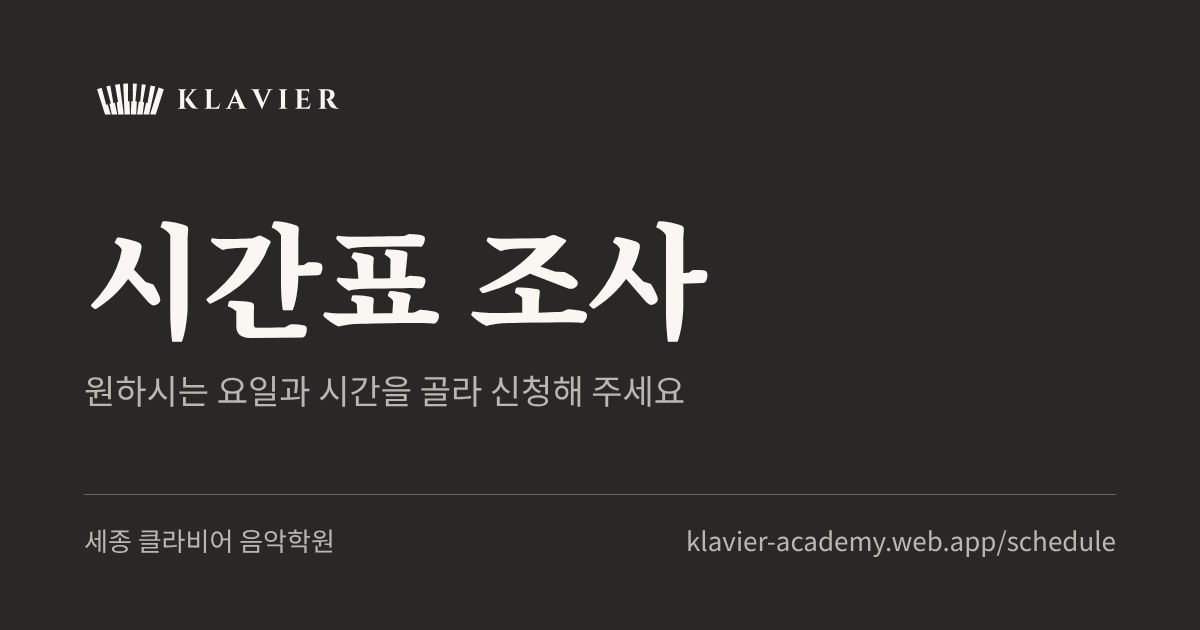
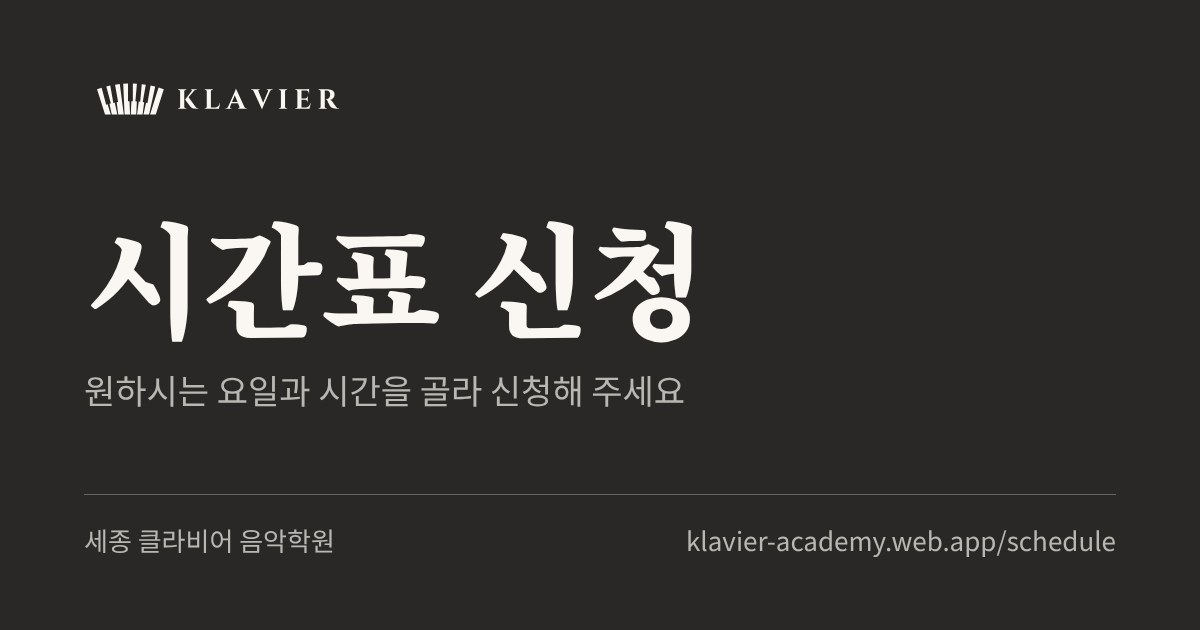
시간표 신청으로 이름 변경, 신청 구분 제거, 정원 표현을 '선생님 한 분에 다섯 명'으로
- '시간표 조사'를 '시간표 신청'으로 (홈페이지, 신청 화면, 운영실, 미리보기 그림, 시연 GIF)
- 신청 화면에서 재원생·형제·신규 구분을 없애고 모두 접수 순서대로
- 운영실은 명부와 이름이 맞는지로 재원생 여부를 표시
- 홈페이지 대기 안내를 신청 순서대로로 통일
- 정원 문구를 선생님 한 분이 다섯 명 전담으로 변경

Claude-Session: https://claude.ai/code/session_01P2nCLTDcX8zYUwPPi7MwoR

Changed region(s): [[0.37, 0.3317, 0.5858, 0.5429]]

diff --git a/admin/admin.js b/admin/admin.js
@@ -113,7 +113,7 @@
     view.appendChild(h("div", { class: "tiles" },
       tile("통계 · 월말 점검", "등록·퇴원 추이, 경로, 주의 원생", "stats"),
       tile("퇴원 · 휴원생", "그만둔 아이, 쉬는 아이 기록", "gone"),
-      tile("시간표 조사", surveyState().text + (survey && survey.round ? " · 접수 " + subs.length + "건" : ""), "survey"),
+      tile("시간표 신청", surveyState().text + (survey && survey.round ? " · 접수 " + subs.length + "건" : ""), "survey"),
       tile("이달의 클라비어", "매달 상 받은 아이 기록 · " + awards.length + "건", "awards"),
       tile("현금출납부", "수강료 수입·지출 기록, 인쇄 · " + ledger.length + "줄", "ledger"),
       tile("공지사항", "홈페이지 공지 " + notices.length + "건 · 글쓰기, 고치기", "notices")));
@@ -467,14 +467,14 @@
     }
   }
 
-  /* ── 시간표 조사 ── */
-  var NOTICE0 = "한 시간 정원은 10명입니다.\n접수 순서대로 가배정하고, 정원이 찬 시간은 대기로 접수됩니다.\n아이 이름은 성까지 적어 주세요.\n오실 수 있는 요일만 골라 주세요.\n문의: 문자 010-4488-4763";
+  /* ── 시간표 신청 ── */
+  var NOTICE0 = "선생님 한 분이 한 시간에 다섯 명만 전담합니다.\n접수 순서대로 가배정하고, 정원이 찬 시간은 대기로 접수됩니다.\n아이 이름은 성까지 적어 주세요.\n오실 수 있는 요일만 골라 주세요.\n문의: 문자 010-4488-4763";
   function tsMs(t) { return t && t.toMillis ? t.toMillis() : 0; }
   function kstInput(msv) { return msv ? new Date(msv + 9 * 36e5).toISOString().slice(0, 16) : ""; }
   function kstText(msv, sec) { return msv ? new Date(msv + 9 * 36e5).toISOString().slice(5, sec ? 19 : 16).replace("T", " ") : ""; }
   function fromKst(v) { return v ? firebase.firestore.Timestamp.fromDate(new Date(v + ":00+09:00")) : null; }
   function surveyState() {
-    if (!survey || !survey.round) return { key: "none", text: "만든 조사 없음" };
+    if (!survey || !survey.round) return { key: "none", text: "연 신청 없음" };
     var t = Date.now(), st = t < tsMs(survey.openAt) ? ["before", "열리기 전"] : t < tsMs(survey.closeAt) ? ["open", "접수 중"] : ["closed", "마감"];
     return { key: st[0], text: st[1] + (survey.visible ? "" : " (학부모 화면 숨김)") };
   }
@@ -494,7 +494,7 @@
       (s.slots || []).forEach(function (id) { n[id] = (n[id] || 0) + 1; s.rank[id] = n[id]; if (n[id] > svCap(id)) s.waits++; (bySlot[id] = bySlot[id] || []).push(s); });
       var m = active().filter(function (x) { return x.name === s.name.replace(/\s/g, ""); }), linkId = (desk[s.id] || {}).studentId, linked = linkId ? students.filter(function (x) { return x.id === linkId; })[0] : null;
       s.linked = linked || null; s.match = linked || (m.length === 1 ? m[0] : null);
-      s.check = linked ? "" : s.kind === "재원생" ? (m.length === 0 ? "명부에 없는 이름" : m.length > 1 ? "같은 이름 " + m.length + "명" : "") : (m.length ? "명부에 같은 이름 있음" : "");
+      s.check = linked ? "" : m.length === 0 ? "명부에 없는 이름" : m.length > 1 ? "같은 이름 " + m.length + "명" : ""; s.who = s.match ? "재원생" : "명부에 없음";
     });
     return { list: list, n: n, bySlot: bySlot };
   }
@@ -508,16 +508,16 @@
   }
   function surveyView() {
     var st = surveyState(), R = ranked(), sv = survey || {};
-    page("시간표 조사", "지금 상태: " + st.text + (sv.round ? " · 접수 " + subs.length + "건" : ""));
+    page("시간표 신청", "지금 상태: " + st.text + (sv.round ? " · 접수 " + subs.length + "건" : ""));
     var link = location.origin + "/schedule/";
-    var F = { title: h("input", { type: "text", value: sv.title || "시간표 조사" }), notice: h("textarea", { rows: "6" }, sv.notice == null ? NOTICE0 : sv.notice),
+    var F = { title: h("input", { type: "text", value: sv.title || "시간표 신청" }), notice: h("textarea", { rows: "6" }, sv.notice == null ? NOTICE0 : sv.notice),
       openAt: h("input", { type: "datetime-local", value: kstInput(tsMs(sv.openAt)) }), closeAt: h("input", { type: "datetime-local", value: kstInput(tsMs(sv.closeAt)) }),
       cap: h("input", { type: "number", min: "1", max: "30", value: sv.cap || 10 }), visible: h("input", { type: "checkbox", checked: !!sv.visible }) };
     var m = h("span", { class: "msg" });
     function fail() { m.className = "msg bad"; m.textContent = "저장하지 못했습니다."; }
     function data() {
       var caps = {}; Object.keys(slots).forEach(function (id) { var c = slots[id].capacity; if (c != null && Number(c) !== 10) caps[id] = Number(c); });
-      return { title: F.title.value.trim() || "시간표 조사", notice: F.notice.value.trim(), openAt: fromKst(F.openAt.value), closeAt: fromKst(F.closeAt.value), cap: Number(F.cap.value) || 10, caps: caps, visible: F.visible.checked };
+      return { title: F.title.value.trim() || "시간표 신청", notice: F.notice.value.trim(), openAt: fromKst(F.openAt.value), closeAt: fromKst(F.closeAt.value), cap: Number(F.cap.value) || 10, caps: caps, visible: F.visible.checked };
     }
     function save(newRound) {
       var d = data(); if (!d.openAt || !d.closeAt || tsMs(d.closeAt) <= tsMs(d.openAt)) { m.className = "msg bad"; m.textContent = "열리는 시각과 마감 시각을 넣어 주세요. 마감은 열림보다 뒤여야 합니다."; return; }
@@ -527,11 +527,11 @@
       p.then(function () { return db.doc("survey/current").set(d); }).then(function () { m.className = "msg good"; m.textContent = newRound ? "새로고침했습니다. 받은 신청을 비우고 0부터 다시 받습니다." : "저장했습니다."; delete fresh.dataset.sure; fresh.textContent = "새로고침"; }, fail);
     }
     var fresh = h("button", { class: "btn danger", type: "button", onclick: function () { if (fresh.dataset.sure) save(true); else { fresh.dataset.sure = "1"; fresh.textContent = "한 번 더 누르면 받은 신청을 비우고 처음부터 다시 받습니다"; } } }, "새로고침");
-    view.appendChild(h("h2", { text: "조사 설정" }));
-    view.appendChild(h("div", { class: "form" }, h("label", { class: "wide" }, "조사 이름", F.title), h("label", { class: "wide" }, "학부모에게 보이는 안내문", F.notice),
+    view.appendChild(h("h2", { text: "신청 설정" }));
+    view.appendChild(h("div", { class: "form" }, h("label", { class: "wide" }, "신청 이름", F.title), h("label", { class: "wide" }, "학부모에게 보이는 안내문", F.notice),
       h("label", null, "열리는 시각", F.openAt), h("label", null, "마감 시각", F.closeAt), h("label", null, "한 시간 정원 (기본)", F.cap),
-      h("label", null, "학부모 화면", h("div", { class: "checks" }, h("label", null, F.visible, "링크를 열면 이 조사가 보이게 하기"))),
-      h("div", { class: "wide row" }, h("button", { class: "btn pri", type: "button", onclick: function () { save(!sv.round); } }, sv.round ? "설정 저장" : "조사 만들기"), sv.round ? fresh : null,
+      h("label", null, "학부모 화면", h("div", { class: "checks" }, h("label", null, F.visible, "링크를 열면 신청 화면이 보이게 하기"))),
+      h("div", { class: "wide row" }, h("button", { class: "btn pri", type: "button", onclick: function () { save(!sv.round); } }, sv.round ? "설정 저장" : "신청 열기"), sv.round ? fresh : null,
         sv.round && st.key === "open" ? h("button", { class: "btn", type: "button", onclick: function () { db.doc("survey/current").update({ closeAt: firebase.firestore.Timestamp.now() }).then(function () { m.className = "msg good"; m.textContent = "마감했습니다."; }, fail); } }, "지금 마감") : null, m),
       h("p", { class: "wide msg", text: "시간표 현황에서 정원을 10명이 아니게 바꿔 둔 칸은 그 정원이 그대로 쓰입니다. 학부모에게는 아래 주소 하나만 보내면 됩니다." }),
       h("div", { class: "wide row" }, h("code", { text: link }), h("button", { class: "btn", type: "button", onclick: function (e) { var b = e.currentTarget; (navigator.clipboard ? navigator.clipboard.writeText(link) : Promise.reject()).then(function () { b.textContent = "복사했습니다"; }, function () { b.textContent = "주소를 길게 눌러 복사해 주세요"; }); } }, "주소 복사"),
@@ -540,7 +540,7 @@
 
     var waitN = R.list.filter(function (s) { return s.waits; }).length, notYet = active().filter(function (x) { return !R.list.some(function (s) { return s.match && s.match.id === x.id; }); }).sort(byName);
     view.appendChild(h("h2", { text: "접수 현황" }));
-    view.appendChild(h("div", { class: "box kv" }, [[subs.length + "건", "접수"], [R.list.filter(function (s) { return s.kind === "재원생"; }).length + "건", "재원생"], [R.list.filter(function (s) { return s.kind !== "재원생"; }).length + "건", "형제 · 신규"], [waitN + "건", "대기가 낀 신청"], [notYet.length + "명", "아직 신청 안 한 재원생"]].map(function (x) { return h("div", null, h("b", { text: x[0] }), h("span", { text: x[1] })); })));
+    view.appendChild(h("div", { class: "box kv" }, [[subs.length + "건", "접수"], [R.list.filter(function (s) { return s.match; }).length + "건", "명부에 있는 아이"], [R.list.filter(function (s) { return !s.match; }).length + "건", "명부에 없는 이름"], [waitN + "건", "대기가 낀 신청"], [notYet.length + "명", "아직 신청 안 한 재원생"]].map(function (x) { return h("div", null, h("b", { text: x[0] }), h("span", { text: x[1] })); })));
     var TABS = [["order", "접수 순서"], ["grid", "칸별 현황"], ["none", "미신청 재원생"]];
     view.appendChild(h("div", { class: "tabs", style: "margin-top:16px" }, TABS.map(function (v) { return h("button", { type: "button", class: svTab === v[0] ? "on" : "", text: v[1], onclick: function () { svTab = v[0]; surveyView(); } }); })));
     var m2 = h("span", { class: "msg" });
@@ -554,11 +554,11 @@
       };
       R.list.forEach(function (s) {
         var d = desk[s.id] || {}, sel = h("select", { "aria-label": "처리", onchange: function (e) { db.doc("rounds/" + sv.round + "/desk/" + s.id).set({ status: e.target.value }, { merge: true }); } }, ["접수", "배정 완료", "대기 명단", "보류"].map(function (o) { return h("option", { value: o, selected: (d.status || "접수") === o, text: o }); }));
-        tb.appendChild(h("tr", null, h("td", { class: "num", text: s.no }), h("td", { text: kstText(tsMs(s.at), true) }), h("td", null, s.name, s.check ? h("span", { class: "tag w", style: "margin-left:6px", text: s.check }) : null, s.linked ? h("span", { class: "tag", style: "margin-left:6px", text: "명부: " + s.linked.name }) : null, s.check || s.linked ? linker(s) : null), h("td", { text: s.kind }), h("td", { text: s.grade }), h("td", { class: "num", text: s.weekly }),
+        tb.appendChild(h("tr", null, h("td", { class: "num", text: s.no }), h("td", { text: kstText(tsMs(s.at), true) }), h("td", null, s.name, s.check ? h("span", { class: "tag w", style: "margin-left:6px", text: s.check }) : null, s.linked ? h("span", { class: "tag", style: "margin-left:6px", text: "명부: " + s.linked.name }) : null, s.check || s.linked ? linker(s) : null), h("td", { text: s.who }), h("td", { text: s.grade }), h("td", { class: "num", text: s.weekly }),
           h("td", null, (s.slots || []).map(function (id) { var w = s.rank[id] - svCap(id); return h("span", { class: "tag" + (w > 0 ? " w" : ""), style: "margin:0 4px 2px 0", text: slotName(id) + (w > 0 ? " 대기" + w : "") }); })),
           h("td", { text: s.phone || "" }), h("td", { text: s.memo || "" }), h("td", null, sel)));
       });
-      view.appendChild(R.list.length ? h("div", { class: "scroll" }, h("table", { class: "plain" }, h("thead", null, h("tr", null, ["순번", "접수 시각", "이름", "구분", "학년", "주", "신청 시간", "연락처", "요청", "처리"].map(function (x) { return h("th", { text: x }); }))), tb)) : h("p", { class: "empty", text: "아직 들어온 신청이 없습니다." }));
+      view.appendChild(R.list.length ? h("div", { class: "scroll" }, h("table", { class: "plain" }, h("thead", null, h("tr", null, ["순번", "접수 시각", "이름", "명부", "학년", "주", "신청 시간", "연락처", "요청", "처리"].map(function (x) { return h("th", { text: x }); }))), tb)) : h("p", { class: "empty", text: "아직 들어온 신청이 없습니다." }));
     } else if (svTab === "grid") {
       var g = h("div", { class: "tt" }, h("div")); DAYS.forEach(function (d) { g.appendChild(h("div", { class: "h", text: d[1] })); });
       TIMES.forEach(function (t) { g.appendChild(h("div", { class: "t", text: t })); DAYS.forEach(function (d) {
@@ -580,10 +580,10 @@
       h("button", { class: "btn", type: "button", onclick: function () { db.doc("rounds/" + sv.round + "/meta/counts").set({ c: R.n }).then(function () { m2.className = "msg good"; m2.textContent = "학부모 화면의 남은 자리를 실제 접수 건수로 다시 맞췄습니다."; }); } }, "남은 자리 다시 계산"), m2));
     view.appendChild(out);
     function csv() {
-      var rows = [["순번", "접수 시각", "이름", "구분", "학년", "주 횟수", "신청 시간", "대기", "연락처", "요청", "처리"]].concat(R.list.map(function (s) {
-        return [s.no, kstText(tsMs(s.at), true), s.name, s.kind, s.grade, s.weekly, s.slots.map(slotName).join(" / "), s.slots.filter(function (id) { return s.rank[id] > svCap(id); }).map(function (id) { return slotName(id) + " 대기" + (s.rank[id] - svCap(id)); }).join(" / "), s.phone, s.memo, (desk[s.id] || {}).status || "접수"]; }));
+      var rows = [["순번", "접수 시각", "이름", "명부", "학년", "주 횟수", "신청 시간", "대기", "연락처", "요청", "처리"]].concat(R.list.map(function (s) {
+        return [s.no, kstText(tsMs(s.at), true), s.name, s.who, s.grade, s.weekly, s.slots.map(slotName).join(" / "), s.slots.filter(function (id) { return s.rank[id] > svCap(id); }).map(function (id) { return slotName(id) + " 대기" + (s.rank[id] - svCap(id)); }).join(" / "), s.phone, s.memo, (desk[s.id] || {}).status || "접수"]; }));
       var text = "" + rows.map(function (r) { return r.map(function (v) { return '"' + String(v == null ? "" : v).replace(/"/g, '""') + '"'; }).join(","); }).join("\r\n");
-      var a = h("a", { href: URL.createObjectURL(new Blob([text], { type: "text/csv" })), download: "시간표조사_" + sv.round + ".csv" }); document.body.appendChild(a); a.click(); a.remove();
+      var a = h("a", { href: URL.createObjectURL(new Blob([text], { type: "text/csv" })), download: "시간표신청_" + sv.round + ".csv" }); document.body.appendChild(a); a.click(); a.remove();
     }
     function preview() {
       var done = R.list.filter(function (s) { return (desk[s.id] || {}).status === "배정 완료"; }), hit = done.filter(function (s) { return s.match; }), miss = done.filter(function (s) { return !s.match; });
@@ -593,7 +593,7 @@
       out.appendChild(h("p", { class: "msg", text: "'배정 완료' " + done.length + "건 중 명부의 재원생과 이름이 맞는 " + hit.length + "명의 수업 시간과 주 횟수를 아래처럼 바꿉니다. 비어 있는 보호자 연락처도 함께 채웁니다." }));
       if (hit.length) out.appendChild(h("div", { class: "scroll" }, h("table", { class: "plain" }, h("thead", null, h("tr", null, ["이름", "지금", "바뀐 뒤"].map(function (x) { return h("th", { text: x }); }))), h("tbody", null, hit.map(function (s) {
         return h("tr", null, h("td", { text: s.match.name === s.name ? s.name : s.match.name + " (신청서에는 '" + s.name + "')" }), h("td", { text: sortSlots(s.match.slots).map(slotName).join(" · ") || "없음" }), h("td", { text: sortSlots(s.slots).map(slotName).join(" · ") })); })))));
-      if (miss.length) out.appendChild(h("p", { class: "msg bad", text: "명부의 아이와 이어지지 않아 반영하지 않는 신청: " + miss.map(function (s) { return s.name + "(" + s.kind + ")"; }).join(", ") + " — 재원생이면 접수 순서 표에서 명부의 아이와 이어 주시고, 신규는 '신규 등록'에서 직접 넣어 주세요." }));
+      if (miss.length) out.appendChild(h("p", { class: "msg bad", text: "명부의 아이와 이어지지 않아 반영하지 않는 신청: " + miss.map(function (s) { return s.name; }).join(", ") + " — 재원생인데 이름이 다르게 적힌 경우는 접수 순서 표에서 명부의 아이와 이어 주시고, 새로 오는 아이는 '신규 등록'에서 직접 넣어 주세요." }));
       var m3 = h("span", { class: "msg" });
       if (hit.length) out.appendChild(h("div", { class: "row", style: "margin-top:12px" }, h("button", { class: "btn pri", type: "button", onclick: function (e) {
         var b = db.batch(), btn = e.currentTarget; btn.disabled = true;

diff --git a/index.html b/index.html
@@ -628,9 +628,9 @@ table.grade { min-width: 0; }
           <p style="margin-top: 0.9em">천연 목재 흡음재와 전문 방음 시공으로 바깥 소음은 막고, 연주 소리는 밖으로 새지 않게 했습니다. 아이는 오롯이 자기 소리에만 집중합니다. 전 구역 CCTV까지 갖춰, 아이가 혼자 있는 시간도 마음 놓고 맡기실 수 있습니다.</p>
         </div>
         <div>
-          <h3 class="h3f">한 시간에 열 명만 머무는 공간</h3>
-          <p>아무리 좋은 공간도 붐비면 소용이 없습니다. 클라비어는 한 시간에 열 명까지만 받습니다. 북적이는 복도도, 방이 비기를 기다리는 줄도 없습니다. 공간에 여유가 있어야 아이는 자기 속도로 연습하고, 선생님의 눈도 한 아이에게 오래 머뭅니다.</p>
-          <p style="margin-top: 0.9em">정원이 차면 더 받지 않고 대기로 안내해 드립니다. 자리를 늘리는 대신, 지금 다니는 아이들의 시간과 공간을 지키는 쪽을 택했습니다. 열 명을 넘지 않는 한 시간이 클라비어가 지키는 약속입니다.</p>
+          <h3 class="h3f">선생님 한 분에 아이 다섯 명</h3>
+          <p>아무리 좋은 공간도 붐비면 소용이 없습니다. 클라비어는 선생님 한 분이 한 시간에 다섯 명만 전담합니다. 북적이는 복도도, 방이 비기를 기다리는 줄도 없습니다. 공간에 여유가 있어야 아이는 자기 속도로 연습하고, 선생님의 눈도 한 아이에게 오래 머뭅니다.</p>
+          <p style="margin-top: 0.9em">정원이 차면 더 받지 않고 대기로 안내해 드립니다. 자리를 늘리는 대신, 지금 다니는 아이들의 시간과 공간을 지키는 쪽을 택했습니다. 선생님 한 분에 다섯 명, 클라비어가 지키는 약속입니다.</p>
         </div>
       </div>
       <p class="note" style="margin-top: 32px">공사는 2026년 12월 24일부터 2027년 1월 3일까지입니다. 환기와 분진 물청소를 마친 뒤 새 공간에서 뵙겠습니다.</p>
@@ -712,7 +712,7 @@ table.grade { min-width: 0; }
       <div class="steps plain" style="margin-top: 72px">
         <div class="card"><div class="en">Maestro</div><h3>원장이 직접 봅니다</h3><p>입학 후 첫 한 달은 원장이 직접 가르칩니다. 13:00–14:00, 17:00–19:00에 오시면 추가 비용 없이 원장이 전담합니다.</p></div>
         <div class="card"><div class="en">Two teachers</div><h3>두 사람의 눈으로</h3><p>원장 반과 선생님 반이 격월로 바뀝니다. 한 사람이 놓친 부분을 다른 사람이 봅니다.</p></div>
-        <div class="card"><div class="en">Ten seats</div><h3>한 시간 정원 10명</h3><p>시간마다 정원을 두어 선생님과 마주하는 시간을 지킵니다.</p></div>
+        <div class="card"><div class="en">Five to one</div><h3>선생님 한 분에 다섯 명</h3><p>선생님 한 분이 한 시간에 다섯 명만 전담해, 아이와 마주하는 시간을 지킵니다.</p></div>
       </div>
     </div>
   </section>
@@ -816,29 +816,24 @@ table.grade { min-width: 0; }
       <div class="eyebrow">TIME &amp; SEATS</div>
       <h2 class="h2">수업은 시간 정원제로 운영합니다</h2>
       <div class="seat">
-        <div class="seat-n"><span class="big">10</span><span>명<small>한 시간 정원</small></span></div>
-        <p>한 시간에 아이들이 몰리면 선생님과 마주하는 시간이 줄어듭니다. 그래서 시간마다 정원을 정해 두었습니다. 수업은 월요일부터 금요일까지, 주 1회에서 4회 중 고르실 수 있습니다.</p>
+        <div class="seat-n"><span class="big">5</span><span>명<small>선생님 한 분이 전담</small></span></div>
+        <p>한 시간에 아이들이 몰리면 선생님과 마주하는 시간이 줄어듭니다. 그래서 선생님 한 분이 한 시간에 다섯 명만 전담하도록 정원을 정해 두었습니다. 수업은 월요일부터 금요일까지, 주 1회에서 4회 중 고르실 수 있습니다.</p>
       </div>
       <div class="survey">
         <div>
           <div class="en">Timetable Survey</div>
-          <h3 class="h3f">학기마다, 시간표 조사로 자리를 정합니다</h3>
-          <p class="sub">정원은 정해 두는 것보다 지키는 것이 어렵습니다. 그래서 클라비어는 시간표 조사 시스템을 직접 만들어 운영합니다. 학기마다 정해진 시각에 조사가 열리면, 보호자는 휴대폰으로 원하는 요일과 시간을 고릅니다.</p>
+          <h3 class="h3f">학기마다, 시간표 신청으로 자리를 정합니다</h3>
+          <p class="sub">정원은 정해 두는 것보다 지키는 것이 어렵습니다. 그래서 클라비어는 시간표 신청 시스템을 직접 만들어 운영합니다. 학기마다 정해진 시각에 신청이 열리면, 보호자는 휴대폰으로 원하는 요일과 시간을 고릅니다.</p>
           <ul class="points">
             <li><strong>남은 자리가 보입니다</strong><span>시간마다 남은 자리가 실시간으로 표시됩니다. 전화로 물어보지 않아도 됩니다.</span></li>
             <li><strong>접수 순서대로 정합니다</strong><span>누르신 시각이 초 단위로 기록되고, 그 순서대로 자리를 드립니다.</span></li>
-            <li><strong>열 명에서 멈춥니다</strong><span>정원이 찬 시간은 더 받지 않고 대기로 접수합니다.</span></li>
+            <li><strong>정원에서 멈춥니다</strong><span>선생님 한 분에 다섯 명입니다. 정원이 찬 시간은 더 받지 않고 대기로 접수합니다.</span></li>
           </ul>
         </div>
-        <figure class="phone"><img src="img/survey-demo.gif" width="360" height="702" loading="lazy" alt="시간표 조사 화면 시연. 아이 이름과 학년을 적고, 요일마다 남은 자리를 보면서 시간을 고른 뒤 신청하면 접수 순번이 나온다."><figcaption class="cap">시간표 조사 화면 · 예시 자료</figcaption></figure>
+        <figure class="phone"><img src="img/survey-demo.gif?v=2" width="360" height="702" loading="lazy" alt="시간표 신청 화면 시연. 아이 이름과 학년을 적고, 요일마다 남은 자리를 보면서 시간을 고른 뒤 신청하면 접수 순번이 나온다."><figcaption class="cap">시간표 신청 화면 · 예시 자료</figcaption></figure>
       </div>
-      <h3 class="h3">자리가 없을 때는 대기 명단 순서로 연락드립니다</h3>
-      <ol class="queue">
-        <li><strong>재원생의 시간 변경</strong><span>지금 다니는 아이가 시간을 옮길 때</span></li>
-        <li><strong>재원생의 형제</strong><span>다니는 아이의 동생 · 언니 · 오빠</span></li>
-        <li><strong>새로 오시는 분</strong><span>처음 등록하는 아이</span></li>
-      </ol>
-      <p class="note">같은 순서 안에서는 신청하신 날짜 순입니다.</p>
+      <h3 class="h3">자리가 없을 때는 신청하신 순서대로 연락드립니다</h3>
+      <p class="sub">다니는 아이, 형제, 새로 오시는 분을 가리지 않습니다. 원하시는 시간에 자리가 나면 대기를 신청하신 순서 그대로 안내해 드립니다.</p>
     </div></div>
     <div class="sec" id="fee" style="scroll-margin-top: calc(var(--nav-h) + 16px)"><div class="wrap">
       <div class="eyebrow">TUITION</div>

diff --git a/schedule/schedule.js b/schedule/schedule.js
@@ -1,4 +1,4 @@
-/* 클라비어 시간표 조사 — 학부모 화면
+/* 클라비어 시간표 신청 — 학부모 화면
    읽는 것: survey/current (회차 안내 · 열림/마감 시각), rounds/{회차}/meta/counts (칸별 신청 수, 이름 없음)
    쓰는 것: rounds/{회차}/submissions/{열쇠} (내 신청 한 건). 다른 아이의 이름·명단은 어디에도 나오지 않습니다.
    열림 · 마감 · 접수 순서는 서버 시각으로 판정합니다(firestore.rules). */
@@ -7,7 +7,7 @@
   var DAYS = [["mon", "월"], ["tue", "화"], ["wed", "수"], ["thu", "목"], ["fri", "금"]];
   var TIMES = []; for (var hh = 13; hh <= 19; hh++) { TIMES.push(hh + ":00"); if (hh < 19) TIMES.push(hh + ":30"); }
   var GRADES = ["6세", "7세", "초1", "초2", "초3", "초4", "초5", "초6", "중1", "중2", "중3", "고1", "고2", "고3", "성인"];
-  var KINDS = ["재원생", "형제 신규", "신규"];
+  var KIND = "재원생"; /* 구분 없이 모두 같은 순서로 받습니다. 저장 규칙이 이 칸을 요구해 고정값만 넣고 화면에는 쓰지 않습니다. */
   var view = document.getElementById("view"), db, S = null, counts = {}, mine = null, editing = false, lookup = false, offset = 0, phase = "", unsubCounts = null, repaint = null;
   var form = blank();
 
@@ -53,12 +53,12 @@
   /* ── 화면 ── */
   function head(stateText) {
     view.innerHTML = ""; repaint = null;
-    view.appendChild(h("h1", { text: (S && S.title) || "시간표 조사" }));
+    view.appendChild(h("h1", { text: ((S && S.title) || "시간표 신청").replace("시간표 조사", "시간표 신청") }));
     view.appendChild(h("p", { class: "state", text: stateText }));
     if (S && S.notice) view.appendChild(h("p", { class: "notice", text: S.notice }));
   }
   function render() {
-    if (phase === "none") { view.innerHTML = ""; view.appendChild(h("h1", { text: "시간표 조사" })); view.appendChild(h("div", { class: "card" }, h("p", { text: "지금은 진행 중인 시간표 조사가 없습니다." }), h("p", { class: "small", text: "조사가 시작되면 학원에서 따로 알려 드립니다." }))); return; }
+    if (phase === "none") { view.innerHTML = ""; view.appendChild(h("h1", { text: "시간표 신청" })); view.appendChild(h("div", { class: "card" }, h("p", { text: "지금은 시간표 신청 기간이 아닙니다." }), h("p", { class: "small", text: "신청이 시작되면 학원에서 따로 알려 드립니다." }))); return; }
     if (phase === "before") {
       head("아직 열리지 않았습니다");
       view.appendChild(h("div", { class: "card" }, h("p", { class: "cap", text: kst(ms(S.openAt)) + "에 열립니다. 이 화면을 그대로 두시면 시간이 되었을 때 저절로 열립니다." }), h("p", { class: "count", id: "countdown", text: left(ms(S.openAt) - now()) })));
@@ -112,7 +112,6 @@
     f.appendChild(h("h2", { text: editing ? "신청 내용 고치기" : "신청하기" }));
     if (editing) f.appendChild(h("p", { class: "msg bad", text: "요일이나 시간을 바꾸면 접수 순서가 지금 고치는 시각으로 다시 매겨집니다. 요청 사항만 고치면 순서는 그대로입니다." }));
     f.appendChild(field("아이 이름 (성까지)", name));
-    f.appendChild(seg("신청 구분", KINDS, function () { return form.kind; }, function (v) { form.kind = v; }));
     f.appendChild(field("학년", grade));
     f.appendChild(seg("희망 횟수", [1, 2, 3, 4, 5], function () { return form.weekly; }, function (v) { form.weekly = v; }, function (o) { return "주 " + o + "회"; }));
     var pick = h("div"); pick.onpick = note;
@@ -132,14 +131,13 @@
       var nm = form.name.trim(), ph = form.phone.replace(/\D/g, ""), slots = Object.keys(form.picks).map(function (d) { return slotId(d, form.picks[d]); }).sort(function (a, b) { return order(a) - order(b); });
       function bad(t) { m.className = "msg bad"; m.textContent = t; }
       if (nm.length < 2) return bad("아이 이름을 성까지 적어 주세요.");
-      if (!form.kind) return bad("신청 구분을 골라 주세요.");
       if (!form.grade) return bad("학년을 골라 주세요.");
       if (!form.weekly) return bad("희망 횟수를 골라 주세요.");
       if (slots.length !== form.weekly) return bad("고른 요일 수(" + slots.length + ")와 희망 횟수(주 " + form.weekly + "회)가 같아야 합니다.");
       if (ph.length < 9) return bad("보호자 연락처를 적어 주세요.");
       if (!form.agree) return bad("개인정보 수집 · 이용에 동의해 주세요.");
       btn.disabled = true; m.className = "msg"; m.textContent = "접수하는 중입니다. 화면을 닫지 말아 주세요.";
-      var base = { name: nm, kind: form.kind, grade: form.grade, weekly: form.weekly, slots: slots, phone: form.phone.trim(), memo: form.memo.trim(), agree: true };
+      var base = { name: nm, kind: KIND, grade: form.grade, weekly: form.weekly, slots: slots, phone: form.phone.trim(), memo: form.memo.trim(), agree: true };
       key(nm, ph).then(function (k) {
         var ref = sub(k), cref = db.doc("rounds/" + S.round + "/meta/counts");
         return (editing ? Promise.resolve(null) : ref.get()).then(function (pre) {
@@ -170,7 +168,7 @@
       list.appendChild(h("li", null, h("b", { text: slotName(id) }), h("span", { class: wait ? "w" : "k", text: p ? (wait ? "대기 " + (p - c) + "번" : "가배정 · " + p + "번째") : "접수" })));
     });
     view.appendChild(h("div", { class: "card" }, h("h2", { style: "margin-top:0", text: "접수되었습니다" }),
-      h("dl", null, h("dt", { text: "아이" }), h("dd", { text: mine.name + " · " + mine.grade + " · " + mine.kind }), h("dt", { text: "횟수" }), h("dd", { text: "주 " + mine.weekly + "회" }), h("dt", { text: "접수 시각" }), h("dd", { text: t ? kst(t, true) : "" }),
+      h("dl", null, h("dt", { text: "아이" }), h("dd", { text: mine.name + " · " + mine.grade }), h("dt", { text: "횟수" }), h("dd", { text: "주 " + mine.weekly + "회" }), h("dt", { text: "접수 시각" }), h("dd", { text: t ? kst(t, true) : "" }),
         mine.memo ? h("dt", { text: "요청" }) : null, mine.memo ? h("dd", { text: mine.memo }) : null), list,
       h("p", { class: "small", style: "margin:12px 0 0", text: "순번은 접수하신 때를 기준으로 한 것입니다. 지금 누르신 것으로 확정되지는 않으며, 원장이 접수 순서대로 확인한 뒤 확정 결과를 따로 안내해 드립니다." })));
     if (canEdit) {

diff --git a/schedule/index.html b/schedule/index.html
@@ -4,14 +4,14 @@
 <meta charset="utf-8">
 <meta name="viewport" content="width=device-width, initial-scale=1, viewport-fit=cover">
 <meta name="robots" content="noindex, nofollow">
-<title>시간표 조사 · 세종 클라비어 음악학원</title>
-<meta name="description" content="세종 클라비어 음악학원 시간표 조사. 원하시는 요일과 시간을 골라 신청해 주세요.">
+<title>시간표 신청 · 세종 클라비어 음악학원</title>
+<meta name="description" content="세종 클라비어 음악학원 시간표 신청. 원하시는 요일과 시간을 골라 신청해 주세요.">
 <meta property="og:type" content="website">
 <meta property="og:site_name" content="세종 클라비어 음악학원">
-<meta property="og:title" content="시간표 조사 · 세종 클라비어 음악학원">
+<meta property="og:title" content="시간표 신청 · 세종 클라비어 음악학원">
 <meta property="og:description" content="원하시는 요일과 시간을 골라 신청해 주세요.">
 <meta property="og:url" content="https://klavier-academy.web.app/schedule/">
-<meta property="og:image" content="https://klavier-academy.web.app/img/schedule-og.jpg">
+<meta property="og:image" content="https://klavier-academy.web.app/img/schedule-og.jpg?v=2">
 <meta property="og:image:width" content="1200">
 <meta property="og:image:height" content="630">
 <link rel="stylesheet" href="https://fonts.googleapis.com/css2?family=Cinzel:wght@500&family=Noto+Sans+KR:wght@400;500;700&family=Noto+Serif+KR:wght@700;900&display=swap">
@@ -23,6 +23,6 @@
 <footer class="foot">문의 문자 <a href="sms:01044884763">010-4488-4763</a></footer>
 <script src="https://www.gstatic.com/firebasejs/10.12.2/firebase-app-compat.js"></script>
 <script src="https://www.gstatic.com/firebasejs/10.12.2/firebase-firestore-compat.js"></script>
-<script src="schedule.js?v=1"></script>
+<script src="schedule.js?v=3"></script>
 </body>
 </html>

diff --git a/admin/index.html b/admin/index.html
@@ -6,7 +6,7 @@
 <meta name="robots" content="noindex, nofollow">
 <title>클라비어 운영실</title>
 <link rel="stylesheet" href="https://fonts.googleapis.com/css2?family=Noto+Sans+KR:wght@300;400;500;700&family=Noto+Serif+KR:wght@700;900&display=swap">
-<link rel="stylesheet" href="admin.css?v=15">
+<link rel="stylesheet" href="admin.css?v=17">
 </head>
 <body>
 <header class="top">
@@ -17,6 +17,6 @@
 <script src="https://www.gstatic.com/firebasejs/10.12.2/firebase-app-compat.js"></script>
 <script src="https://www.gstatic.com/firebasejs/10.12.2/firebase-auth-compat.js"></script>
 <script src="https://www.gstatic.com/firebasejs/10.12.2/firebase-firestore-compat.js"></script>
-<script src="admin.js?v=15"></script>
+<script src="admin.js?v=17"></script>
 </body>
 </html>
